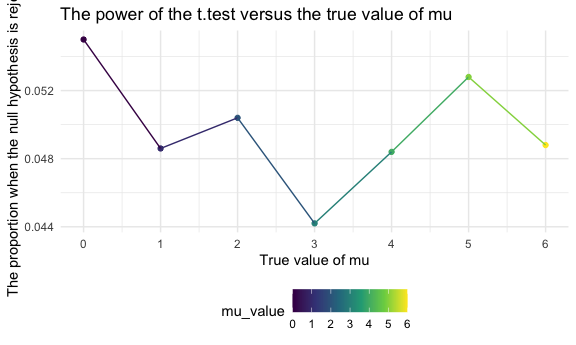
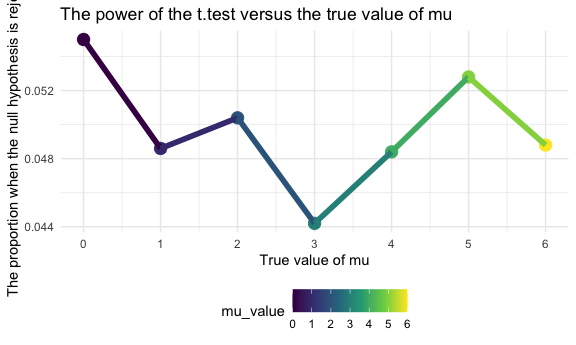
finish plot 3 of problem 3 and also change the width of the line which makes it more audience-friendly

diff --git a/hw5_dg3187.md b/hw5_dg3187.md
@@ -510,8 +510,8 @@ plot_1 =
     proportion = n / 5000
   ) %>% 
   ggplot(aes(x = mu_value, y = proportion, color = mu_value)) +
-  geom_point()+
-  geom_line() +
+  geom_point(size = 4)+
+  geom_line(size = 2) +
   labs(
     title = "The power of the t.test versus the true value of mu",
     x = "True value of mu",
@@ -527,7 +527,7 @@ plot_1
 
 The power increases as the effect size(true value of mu) increases.
 
-Make a plot showing the average estimate of mu on the y axis and the
+Make a plot showing the average estimate of mu hat on the y axis and the
 true value of mu on the x axis.
 
 ``` r
@@ -538,15 +538,17 @@ plot_2 =
     average_estimate = mean(mu_hat)
   ) %>% 
   ggplot(aes(x = mu_value, y = average_estimate, color = mu_value)) +
-  geom_point()+
-  geom_line() +
+  geom_point(size = 4)+
+  geom_line(size = 2) +
   labs(
     title = "The average estimate of mu hat versus true value of mu",
     x = "True value of mu",
     y = "The average estimate of mu hat") + 
   scale_x_continuous(
     breaks = c(0,1,2,3,4,5,6), 
-    limits = c(0,6)) 
+    limits = c(0,6)) +
+  scale_y_continuous(
+    breaks = c(0,1,2,3,4,5,6))
 ```
 
     ## `summarise()` ungrouping output (override with `.groups` argument)
@@ -556,3 +558,38 @@ plot_2
 ```
 
 <img src="hw5_dg3187_files/figure-gfm/unnamed-chunk-14-1.png" width="90%" />
+
+Make a second plot the average estimate of mu hat only in samples for
+which the null was rejected on the y axis and the true value of mu on
+the x axis.
+
+``` r
+plot_3 =
+  results_df %>%
+  filter(p_value < 0.05) %>% 
+  group_by(mu_value) %>% 
+  summarize(
+    average_estimate = mean(mu_hat)
+  ) %>% 
+  ggplot(aes(x = mu_value, y = average_estimate, color = mu_value)) +
+  geom_point(size = 4)+
+  geom_line(size = 2) +
+  geom_line(aes(x = mu_value,y = mu_value,), color = "red", size = 1) +
+  labs(
+    title = "The average estimate of mu hat that reject the null versus the true value of mu",
+    x = "True value of mu",
+    y = "The average estimate of mu hat that reject the null") + 
+  scale_x_continuous(
+    breaks = c(0,1,2,3,4,5,6), 
+    limits = c(0,6)) +
+  scale_y_continuous(
+    breaks = c(0,1,2,3,4,5,6))
+```
+
+    ## `summarise()` ungrouping output (override with `.groups` argument)
+
+``` r
+plot_3
+```
+
+<img src="hw5_dg3187_files/figure-gfm/unnamed-chunk-15-1.png" width="90%" />
